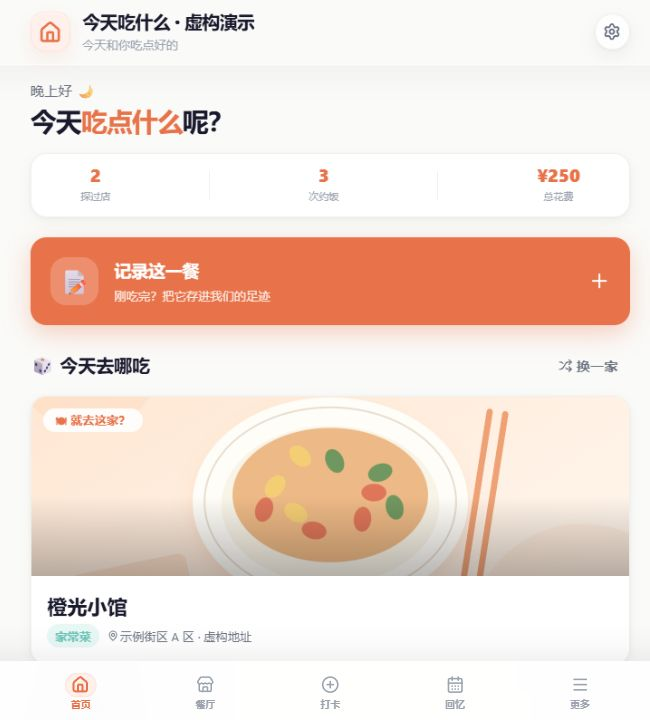
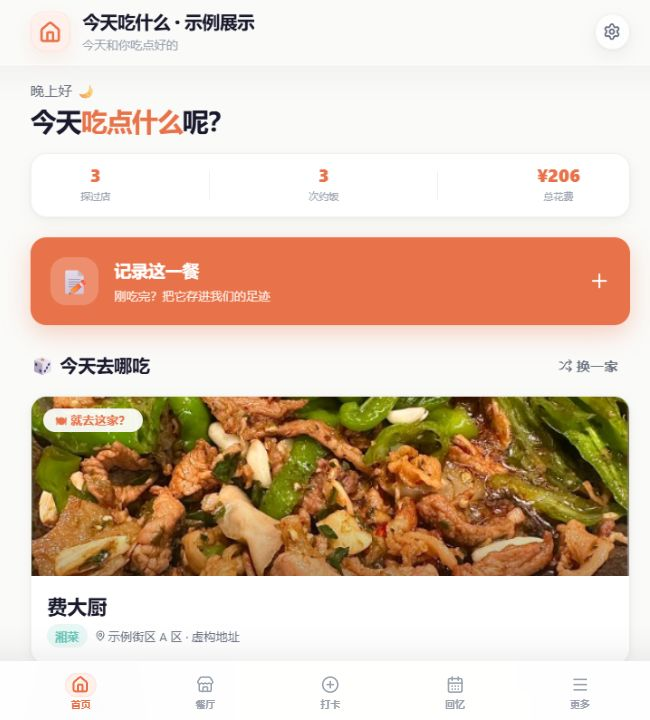
feat: add photo examples and prepare TodaEat release

Changed region(s): [[0.0308, 0.55, 0.9846, 0.9167], [0.2769, 0.0, 0.3692, 0.0611], [0.8615, 0.2139, 0.8923, 0.275]]

diff --git a/backend/internal/database/database_test.go b/backend/internal/database/database_test.go
@@ -71,7 +71,7 @@ func TestInitializePreservesDataAndDoesNotReseedDeletedRestaurants(t *testing.T)
 	var restaurants, dishes int64
 	DB.Model(&models.Restaurant{}).Count(&restaurants)
 	DB.Model(&models.Dish{}).Count(&dishes)
-	if restaurants != 6 || dishes != 35 {
+	if restaurants != 9 || dishes != 38 {
 		t.Fatalf("unexpected fresh seeds: %d restaurants, %d dishes", restaurants, dishes)
 	}
 	if err := DB.Model(&models.Setting{}).Where("key = ?", "app_name").Update("value", "My name").Error; err != nil {

diff --git a/backend/internal/dishes/catalog.go b/backend/internal/dishes/catalog.go
@@ -1,4 +1,4 @@
-// Default catalog recovered by starting the original binary with an empty DB.
+// Default catalog combines the original examples with maintainer-supplied photo examples.
 package dishes
 
 import (

diff --git a/README.md b/README.md
@@ -1,14 +1,14 @@
-# TodayEat · 今天吃什么
+# TodaEat · 今天吃什么
 
 **English | [简体中文](README.zh-CN.md)**
 
-[![CI](https://github.com/wangyuzz/eat/actions/workflows/ci.yml/badge.svg)](https://github.com/wangyuzz/eat/actions/workflows/ci.yml)
-[![Build packages](https://github.com/wangyuzz/eat/actions/workflows/packages.yml/badge.svg)](https://github.com/wangyuzz/eat/actions/workflows/packages.yml)
+[![CI](https://github.com/wangyuzz/TodaEat/actions/workflows/ci.yml/badge.svg)](https://github.com/wangyuzz/TodaEat/actions/workflows/ci.yml)
+[![Build packages](https://github.com/wangyuzz/TodaEat/actions/workflows/packages.yml/badge.svg)](https://github.com/wangyuzz/TodaEat/actions/workflows/packages.yml)
 [![MIT](https://img.shields.io/badge/license-MIT-green.svg)](LICENSE)
 
 A self-hosted restaurant wishlist and shared dining journal for two people. Save places you want to try, pick a restaurant when you cannot decide, and keep a record of meals, ratings, moods, and photos. Couples, friends, and anyone who enjoys sharing meals can run their own instance.
 
-TodayEat uses React + Vite, Go + Gin, and SQLite. A single Go service serves the built frontend and API. Optional location search uses AMap; the core application works without an API key.
+TodaEat uses React + Vite, Go + Gin, and SQLite. A single Go service serves the built frontend and API. Optional location search uses AMap; the core application works without an API key.
 
 ## Preview
 
@@ -17,7 +17,7 @@ TodayEat uses React + Vite, Go + Gin, and SQLite. A single Go service serves the
 | ![Home with restaurant suggestions and dining statistics](docs/images/home.jpg) | ![Restaurant collection with category filters and wishlists](docs/images/restaurants.jpg) | ![Meal albums grouped by month with images and meal details](docs/images/photo-wall.jpg) |
 | Pick a restaurant and quickly record a meal. | Search, filter by category, and save places to try. | Revisit each meal with images, moods, and spending. |
 
-Screenshots use the frontend in a local preview with fictional restaurants, addresses, meal records, and food illustrations.
+Screenshots use the frontend in a local preview with maintainer-supplied photos of Fei Da Chu, Burger King, and a dessert shop. Addresses, visit dates, spending, and notes are sample data. Fresh installations include these three example restaurants and dishes; the photos are bundled in `frontend/public/examples/`.
 
 [Hosted instance](https://eat.nowayzzz1.dpdns.org/) requires an application password. The screenshot fixtures are separate from the hosted instance. The application interface is currently in Simplified Chinese; this repository provides English and Chinese documentation.
 
@@ -111,13 +111,17 @@ Open [http://127.0.0.1:8080](http://127.0.0.1:8080). The startup script uses `ba
 
 ## Build and deploy
 
+### Release downloads
+
+Download ready-to-run Windows AMD64, Linux AMD64, and Linux ARM64 packages from [Releases](https://github.com/wangyuzz/TodaEat/releases/latest). Release assets also include a source archive and SHA-256 checksums. Extract the runtime package, copy `.env.example` to `.env`, and configure your passwords and random JWT key before starting. Runtime filenames use the `todayeat` prefix.
+
 ### GitHub Actions packages
 
-Maintainers can open [Build packages](https://github.com/wangyuzz/eat/actions/workflows/packages.yml) and select **Run workflow**. Pushing a `v*` tag also triggers packaging. Successful runs provide Windows AMD64, Linux AMD64, and Linux ARM64 downloads under **Artifacts**. GitHub sign-in is usually required to download artifacts; they are retained for 30 days.
+Maintainers can open [Build packages](https://github.com/wangyuzz/TodaEat/actions/workflows/packages.yml) and select **Run workflow**. Pushing a `v*` tag also triggers packaging. Successful runs provide Windows AMD64, Linux AMD64, and Linux ARM64 downloads under **Artifacts**. GitHub sign-in is usually required to download artifacts; they are retained for 30 days.
 
 Extract the GitHub artifact, then extract the runtime archive inside. Copy `.env.example` to `.env` and configure credentials before starting. Each package includes the executable, frontend assets, license notices, and deployment instructions.
 
-[CI](https://github.com/wangyuzz/eat/actions/workflows/ci.yml) runs backend tests, static checks, and builds on Linux and Windows, plus frontend tests and builds, on pushes and pull requests.
+[CI](https://github.com/wangyuzz/TodaEat/actions/workflows/ci.yml) runs backend tests, static checks, and builds on Linux and Windows, plus frontend tests and builds, on pushes and pull requests.
 
 ### Local builds
 
@@ -197,7 +201,7 @@ frontend/
     ├── components/     # Shared components
     └── pages/          # Check-ins, albums, achievements, administration
 scripts/                 # Build, startup, source packaging, and verification
-docs/images/             # Screenshots with fictional demonstration data
+docs/images/             # Screenshots with sample dining records
 ```
 
 ## Development checks
@@ -223,4 +227,4 @@ To package committed source, run `./scripts/package-source.ps1` from the reposit
 
 Issues, reproducible bug reports, documentation fixes, and improvements are welcome. See [CONTRIBUTING.md](CONTRIBUTING.md) and [DEPLOY.md](DEPLOY.md) for development and deployment guidance (currently in Simplified Chinese).
 
-TodayEat's own source is distributed under the [MIT license](LICENSE). Third-party dependencies retain their own licenses and copyright notices; see [THIRD_PARTY_NOTICES.md](THIRD_PARTY_NOTICES.md).
+TodaEat's own source is distributed under the [MIT license](LICENSE). Third-party dependencies retain their own licenses and copyright notices; see [THIRD_PARTY_NOTICES.md](THIRD_PARTY_NOTICES.md).

diff --git a/README.zh-CN.md b/README.zh-CN.md
@@ -1,16 +1,16 @@
-# TodayEat · 今天吃什么
+# TodaEat · 今天吃什么
 
 **[English](README.md) | 简体中文**
 
-[![CI](https://github.com/wangyuzz/eat/actions/workflows/ci.yml/badge.svg)](https://github.com/wangyuzz/eat/actions/workflows/ci.yml)
-[![构建下载包](https://github.com/wangyuzz/eat/actions/workflows/packages.yml/badge.svg)](https://github.com/wangyuzz/eat/actions/workflows/packages.yml)
+[![CI](https://github.com/wangyuzz/TodaEat/actions/workflows/ci.yml/badge.svg)](https://github.com/wangyuzz/TodaEat/actions/workflows/ci.yml)
+[![构建下载包](https://github.com/wangyuzz/TodaEat/actions/workflows/packages.yml/badge.svg)](https://github.com/wangyuzz/TodaEat/actions/workflows/packages.yml)
 [![MIT](https://img.shields.io/badge/license-MIT-green.svg)](LICENSE)
 
 一个可自行部署的双人餐厅收藏和用餐记录应用。收藏想去的餐厅，纠结时随机选一家，吃完留下评分、心情和照片，让每一次一起吃饭都有迹可循。情侣、朋友或其他希望共同记录用餐的小伙伴都可以部署自己的实例。
 
 前端使用 React + Vite，后端使用 Go + Gin + SQLite。构建后由一个 Go 服务提供页面和 API，适合部署在自己的服务器上。
 
-TodayEat is a self-hosted restaurant wishlist and shared dining journal for two people. It supports random restaurant selection, ratings, photos, visit history, and achievements. Anyone can run their own instance using the documented setup below. Optional location search uses AMap; the core application works without an API key.
+TodaEat is a self-hosted restaurant wishlist and shared dining journal for two people. It supports random restaurant selection, ratings, photos, visit history, and achievements. Anyone can run their own instance using the documented setup below. Optional location search uses AMap; the core application works without an API key.
 
 ## 界面预览
 
@@ -19,7 +19,7 @@ TodayEat is a self-hosted restaurant wishlist and shared dining journal for two 
 | ![首页：随机餐厅推荐与用餐统计](docs/images/home.jpg) | ![餐厅清单：按分类浏览和收藏想去的餐厅](docs/images/restaurants.jpg) | ![用餐相册：按月份回顾打卡和图片](docs/images/photo-wall.jpg) |
 | 随机选一家餐厅，快速记录这一餐。 | 搜索、分类筛选，整理招牌菜和想去清单。 | 按月份整理每次用餐的图片、心情和花费。 |
 
-截图来自本地前端预览，餐厅、地址、用餐记录和食物插画均为虚构示例。
+截图来自本地前端预览，使用维护者提供的费大厨、汉堡王和糖水店照片；地址、日期、花费及备注均为示例数据。首次安装会加入这三家示例餐厅及菜品，图片位于 `frontend/public/examples/`。
 
 [在线实例](https://eat.nowayzzz1.dpdns.org/)需要应用密码；截图中的演示数据与在线实例相互独立。目前应用界面为简体中文，本仓库说明提供中英文版本。
 
@@ -115,9 +115,13 @@ npm run dev
 
 ## 构建与部署
 
+### 从 Releases 下载运行包
+
+在 [Releases](https://github.com/wangyuzz/TodaEat/releases/latest) 下载 Windows AMD64、Linux AMD64、Linux ARM64 运行包，也可下载源码包及 SHA-256 校验文件。解压运行包后，复制 `.env.example` 为 `.env`，配置密码和随机 JWT 密钥再启动。运行文件名使用 `todayeat` 前缀。
+
 ### 从 GitHub Actions 下载运行包
 
-在 [Build packages](https://github.com/wangyuzz/eat/actions/workflows/packages.yml) 中，维护者可点击 **Run workflow** 手动构建；推送 `v*` 标签也会触发构建。成功运行后，在 **Artifacts** 中选择 Windows AMD64、Linux AMD64 或 Linux ARM64 包。下载通常需要登录 GitHub，构建产物保留 30 天。
+在 [Build packages](https://github.com/wangyuzz/TodaEat/actions/workflows/packages.yml) 中，维护者可点击 **Run workflow** 手动构建；推送 `v*` 标签也会触发构建。成功运行后，在 **Artifacts** 中选择 Windows AMD64、Linux AMD64 或 Linux ARM64 包。下载通常需要登录 GitHub，构建产物保留 30 天。
 
 解压 GitHub 的产物压缩包，再解压其中的运行包，复制 `.env.example` 为 `.env` 并配置密码和密钥。自动包中包含程序、前端资源及部署说明。CI 在每次推送和 Pull Request 时检查后端测试、静态检查、构建和前端测试、构建。
 

diff --git a/THIRD_PARTY_NOTICES.md b/THIRD_PARTY_NOTICES.md
@@ -1,6 +1,6 @@
 # Third-party components
 
-TodayEat's own source is distributed under the MIT license in [LICENSE](LICENSE). Third-party components retain their own licenses and copyright notices; the project license does not replace them.
+TodaEat's own source is distributed under the MIT license in [LICENSE](LICENSE). Third-party components retain their own licenses and copyright notices; the project license does not replace them.
 
 - Frontend dependencies are recorded in `frontend/package.json` and `frontend/package-lock.json`: React, React Router, TanStack Query, Zustand, Axios, GSAP, Lucide, react-hot-toast, Vite, and their dependencies.
 - Backend dependencies are recorded in `backend/go.mod` and `backend/go.sum`: Gin, GORM, SQLite drivers, jwt/v5, image processing packages, and their dependencies.

diff --git a/CONTRIBUTING.md b/CONTRIBUTING.md
@@ -1,6 +1,6 @@
-# Contributing to TodayEat
+# Contributing to TodaEat
 
-欢迎为 TodayEat 修复问题、完善文档和改进功能。本项目面向希望自行部署餐厅收藏和双人用餐记录工具的用户。
+欢迎为 TodaEat 修复问题、完善文档和改进功能。本项目面向希望自行部署餐厅收藏和双人用餐记录工具的用户。
 
 ## 本地开发
 
